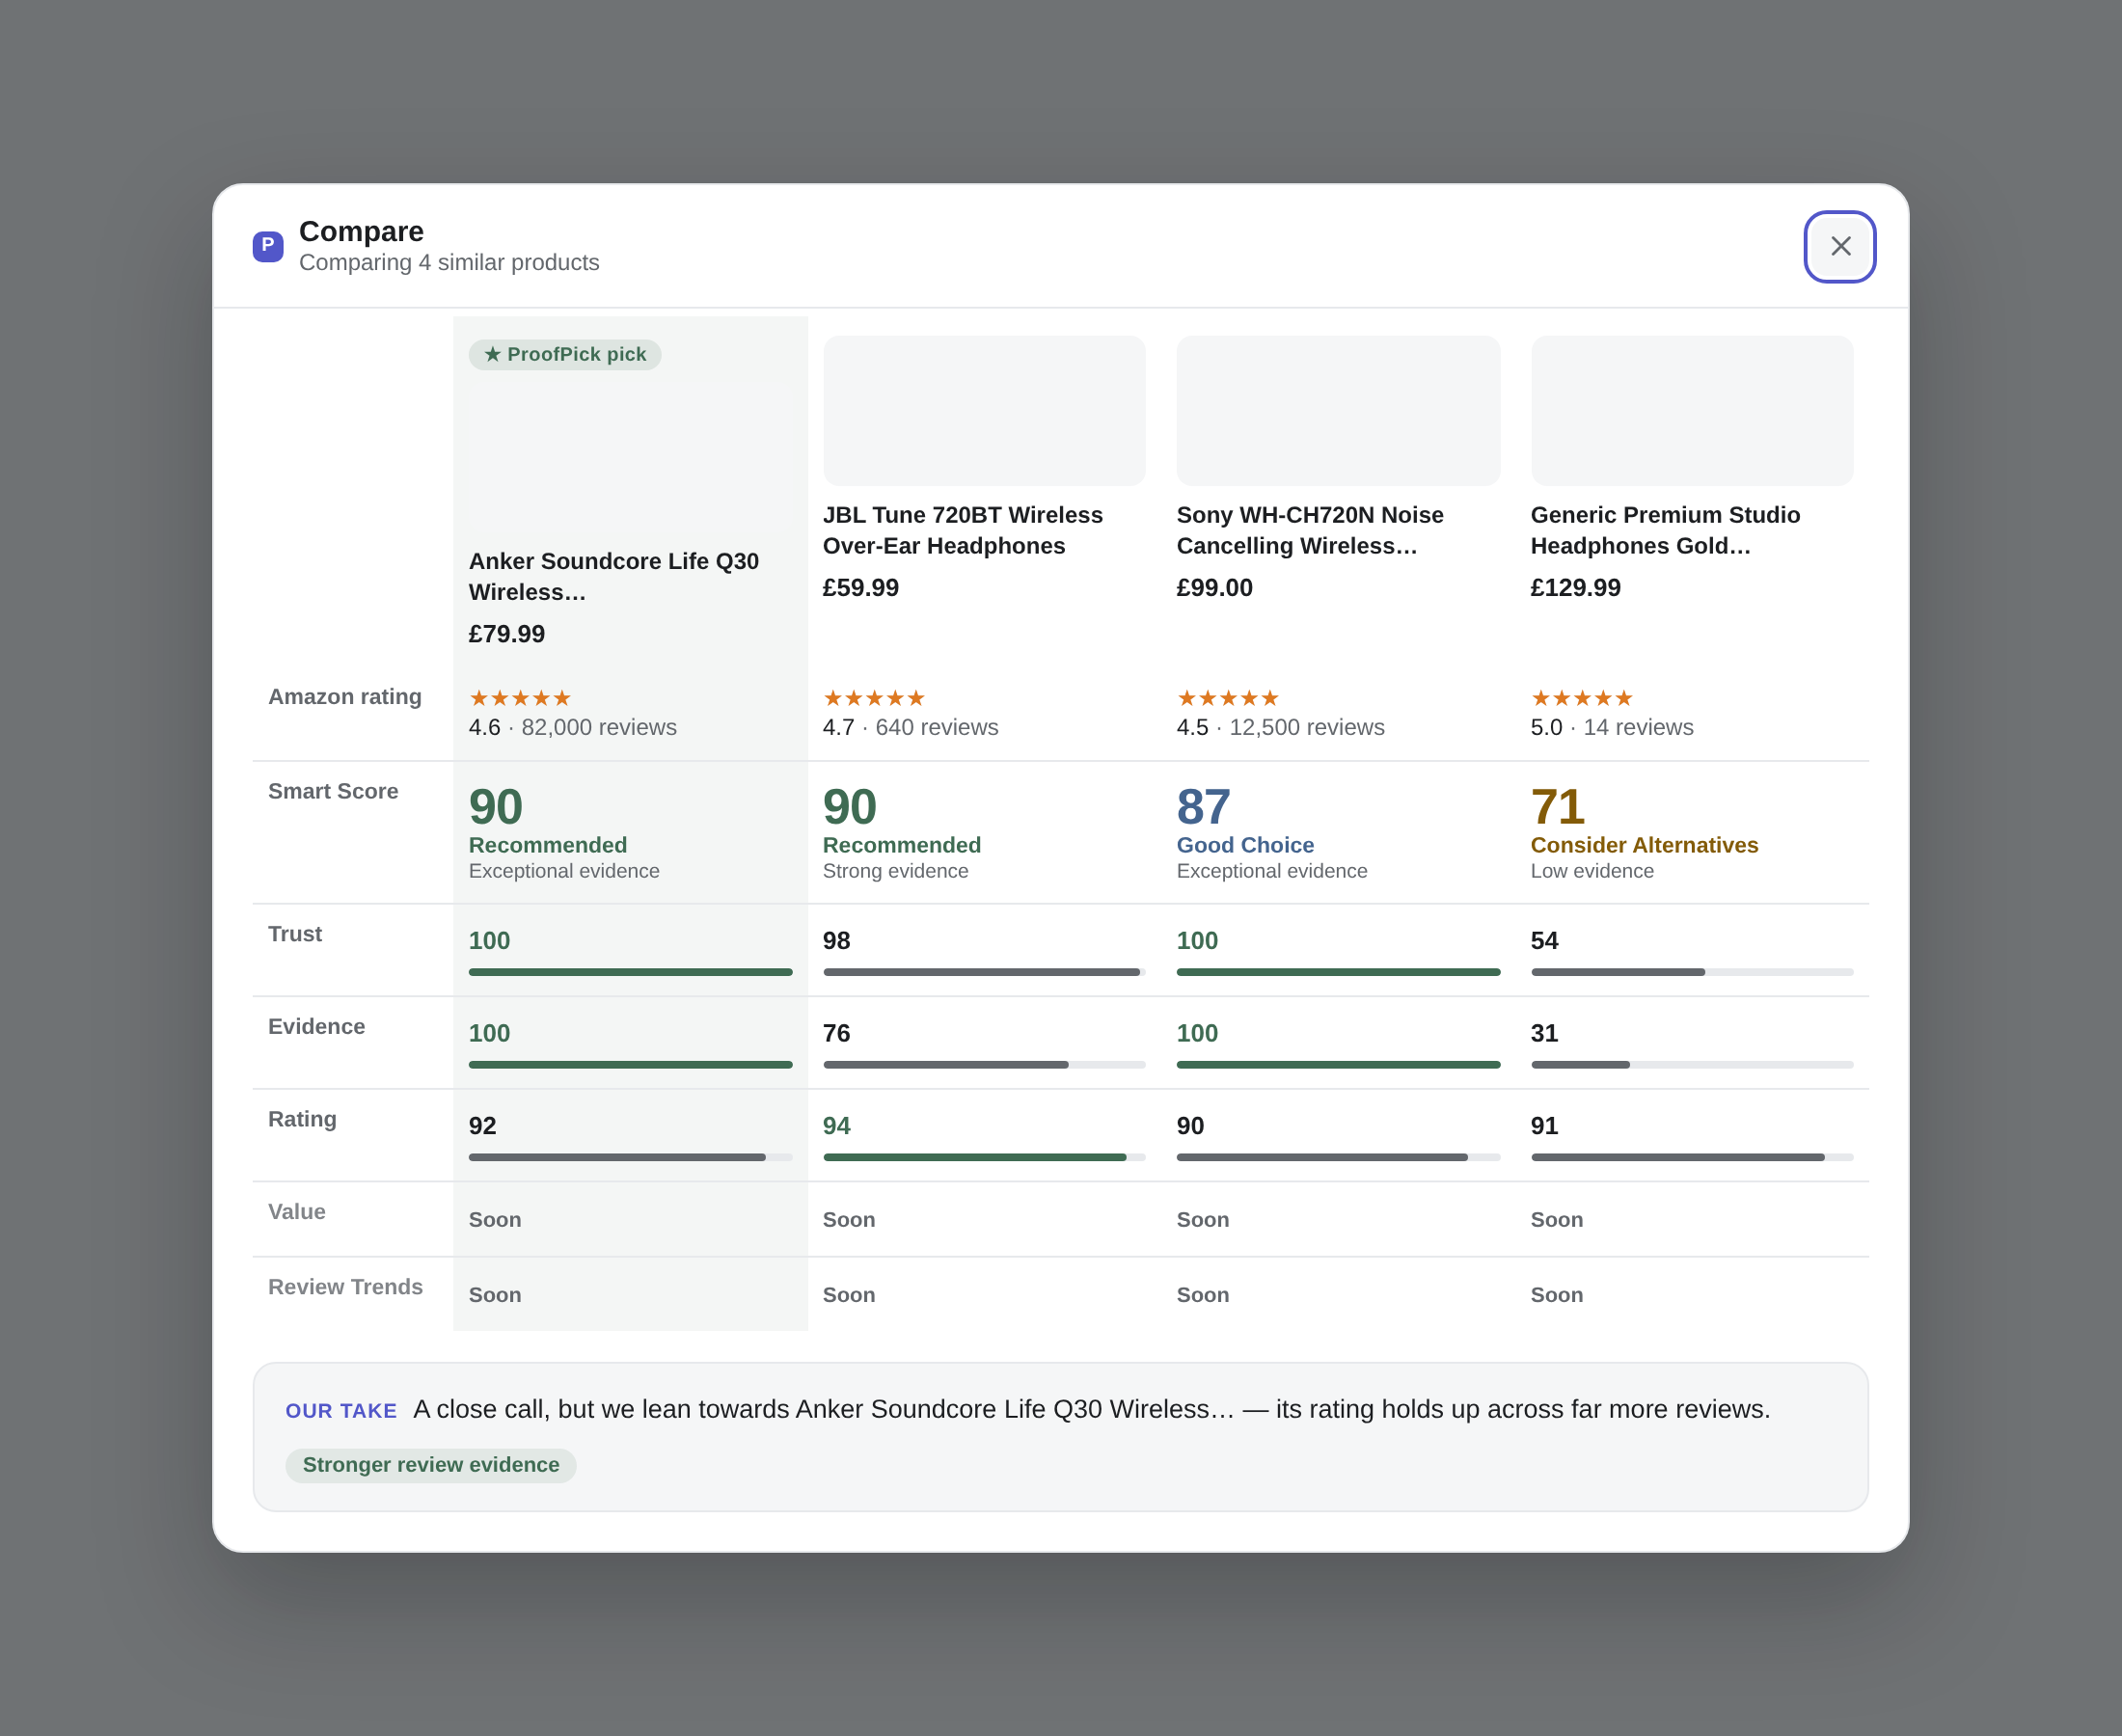
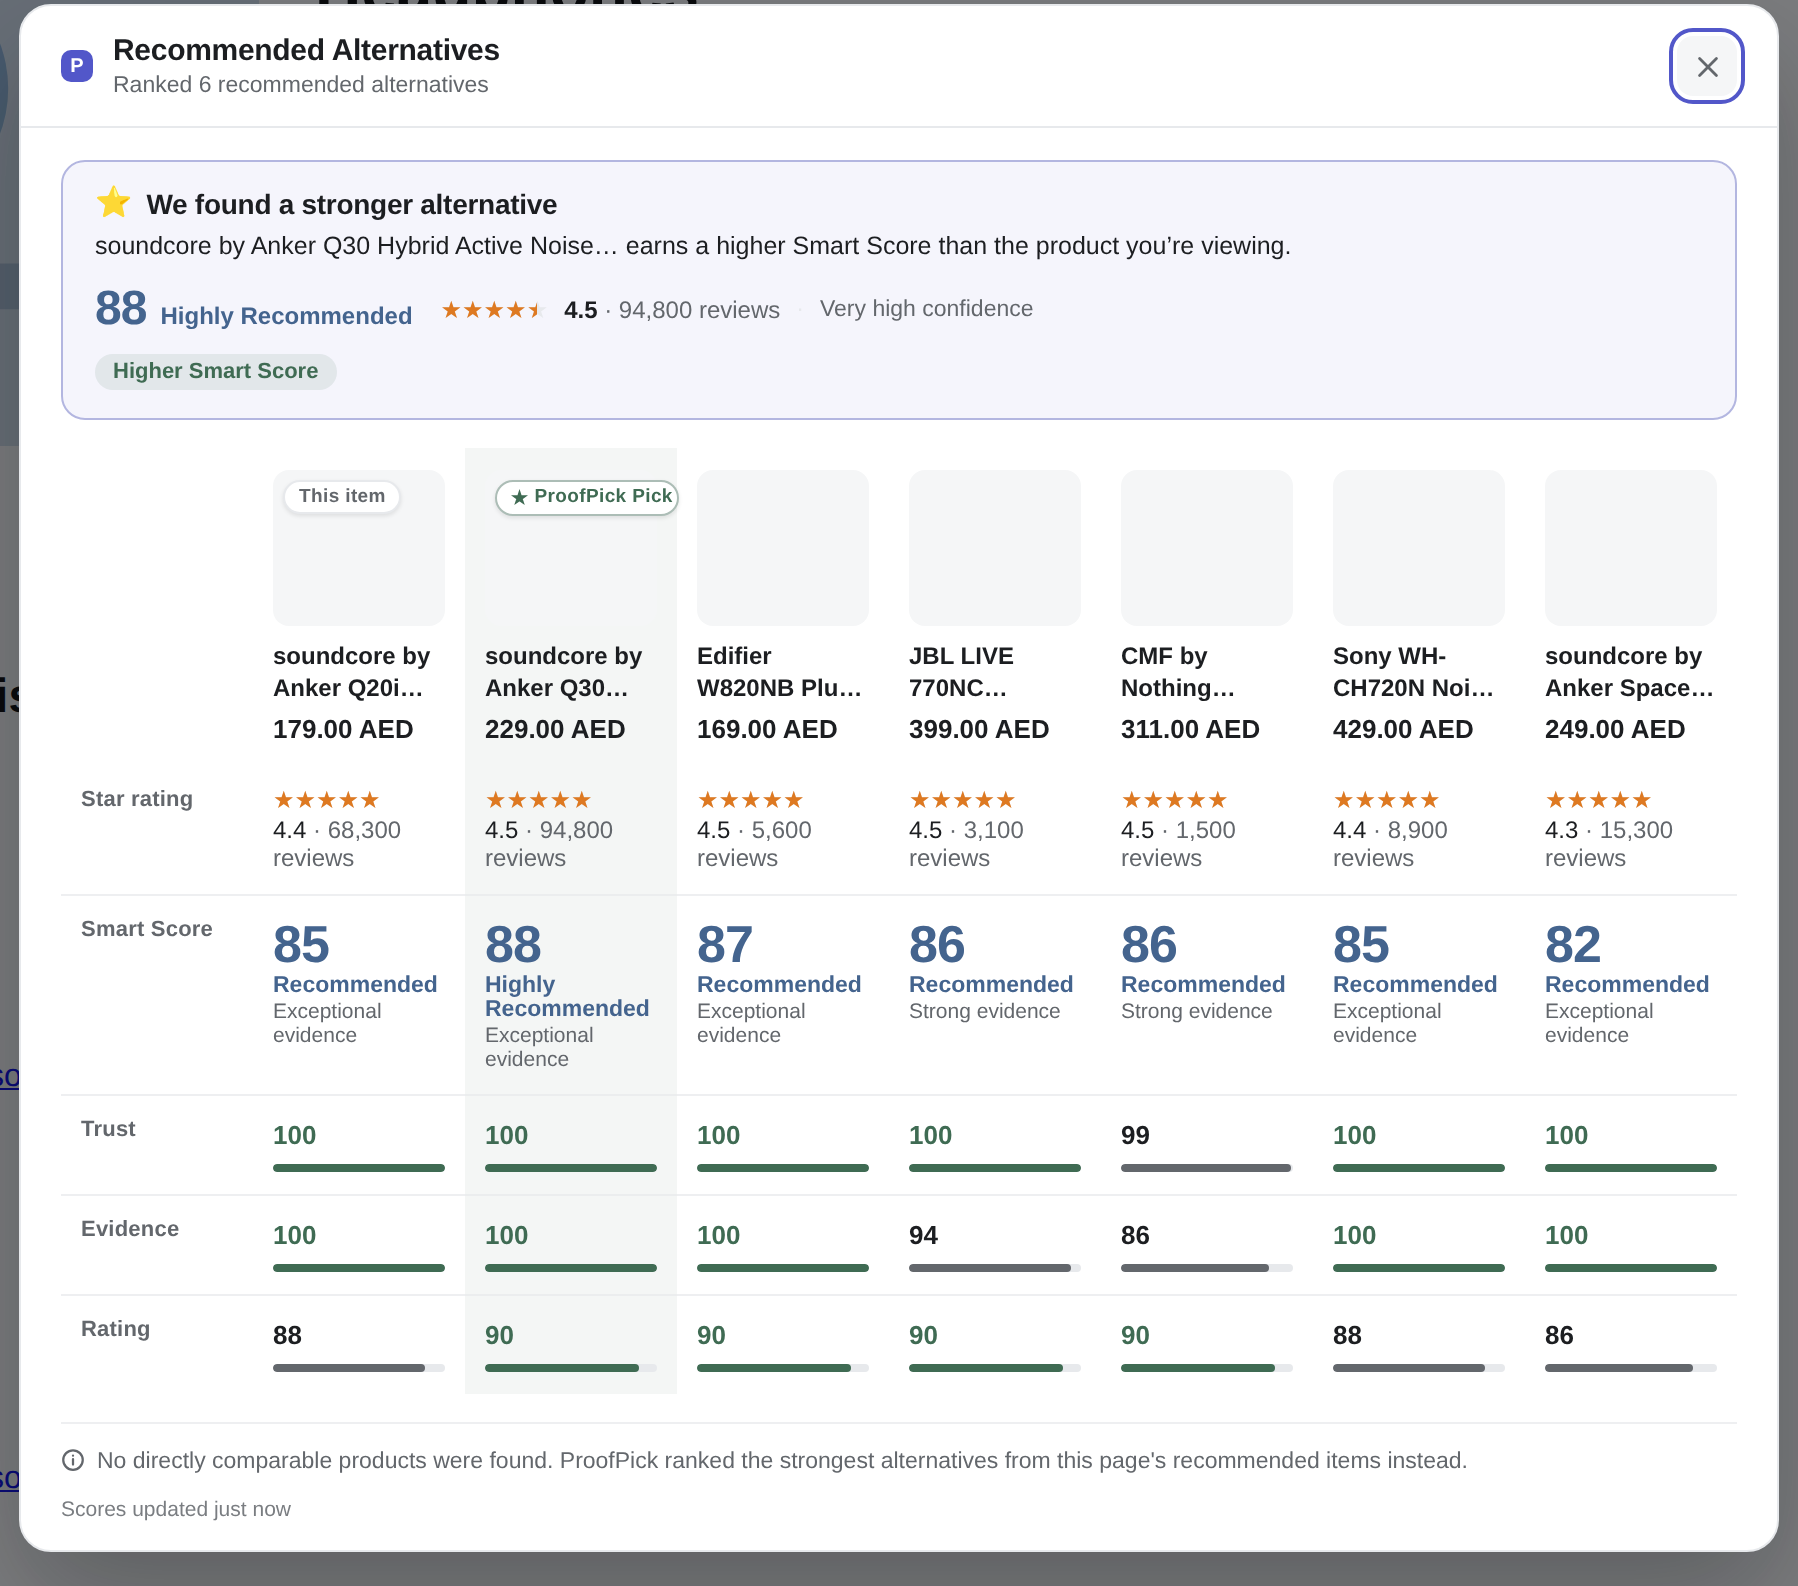
Refresh comparison showcase: premium modal hierarchy, ProofPick Pick, updated counts
- Replace the compare screenshot with the refreshed Recommended Alternatives
  modal: verdict-first hierarchy, overlaid ProofPick Pick badge on the winning
  product's image, aligned product columns, methodology footnote and freshness
  line at the bottom.
- Rewrite the comparison feature section around that flow (verdict -> ranked
  comparison -> methodology -> metadata) and name the ProofPick Pick badge.
- Add "Evidence keeps mattering" to the Smart Score explanation: equal ratings
  no longer read as ties at scale — more reviews keep counting with diminishing
  returns, while a better rating always outranks a bigger crowd.
- Update test counts to the current suite (677 passing).

Claude-Session: https://claude.ai/code/session_01DTqCETjL71ahmqvUNMfpDe

diff --git a/README.md b/README.md
@@ -17,7 +17,7 @@ and nothing about you leaves your browser.
 <p>
   <img alt="Manifest V3" src="https://img.shields.io/badge/Chrome-Manifest%20V3-5257c9">
   <img alt="TypeScript" src="https://img.shields.io/badge/TypeScript-strict-3178c6">
-  <img alt="Tests" src="https://img.shields.io/badge/tests-574%20passing-3f6b53">
+  <img alt="Tests" src="https://img.shields.io/badge/tests-677%20passing-3f6b53">
   <img alt="Privacy" src="https://img.shields.io/badge/privacy-by%20design-3f6b53">
   <img alt="Remote code" src="https://img.shields.io/badge/remote%20code-none-9e4f34">
 </p>
@@ -44,10 +44,16 @@ and nothing about you leaves your browser.
 
 ![Product‑page trust panel](screenshots/product-panel.png)
 
-- **Compare** — a side‑by‑side of the alternatives a listing already surfaces, scored
-  on trust, evidence and rating, with a clear “our take”.
+- **Recommended Alternatives** — one click on a product page and ProofPick ranks the
+  strongest alternatives the listing already surfaces, side by side. The verdict comes
+  first (“We found a stronger alternative”, with the winner’s evidence), the comparison
+  table is the proof beneath it, and the winning product wears a small **ProofPick
+  Pick** badge on its image. How the alternatives were found — and when the scores
+  were computed — sits quietly at the bottom, where methodology belongs.
 
-![Compare view](screenshots/compare.png)
+![Recommended Alternatives — verdict, ranked comparison, and the ProofPick Pick](screenshots/compare.png)
+
+<sub>Product images and prices above are placeholders in a demo layout — the extension builds this comparison from the real product page.</sub>
 
 - **Works wherever you shop on Amazon** — 17 marketplaces (UK, US, DE, FR, IT, ES, NL,
   SE, BR, MX, JP, IN, AE, SG, CA, AU, IE) with locale‑aware rating and number parsing.
@@ -63,7 +69,11 @@ Star averages are noisy and easy to game. ProofPick treats each rating as *evide
    5.0 from 3 reviews scores below a 4.6 from thousands.
 2. **Weight by statistical confidence.** A lower‑confidence bound on the rating means
    the score reflects how *sure* we can be, not just the raw average.
-3. **Explain everything.** The score always comes with its reasons and an honest
+3. **Evidence keeps mattering.** Two products with the same rating don’t tie just
+   because both are popular: more reviews keep counting (with diminishing returns),
+   while a better rating always outranks a bigger crowd. Volume is confidence in the
+   rating — never a popularity prize.
+4. **Explain everything.** The score always comes with its reasons and an honest
    confidence level — and when there’s no rating, ProofPick says so instead of guessing.
 
 The result is a number you can actually trust, built from transparent statistics —
@@ -79,7 +89,7 @@ not sentiment, not paid placement, not fabricated “authenticity” claims.
   background, content).
 - **On‑page UI in Shadow DOM** — every injected badge and panel is fully style‑isolated
   from the host page, and vice‑versa.
-- **574 automated tests** across parsing, scoring, UI and safety, plus a build‑integrity
+- **677 automated tests** across parsing, scoring, UI and safety, plus a build‑integrity
   checker and a real‑Chrome verification harness that loads the packaged extension and
   asserts the worker registers and no page script is ever disturbed.
 - **Locked down by design** — a strict Content‑Security‑Policy, **no remote code, no